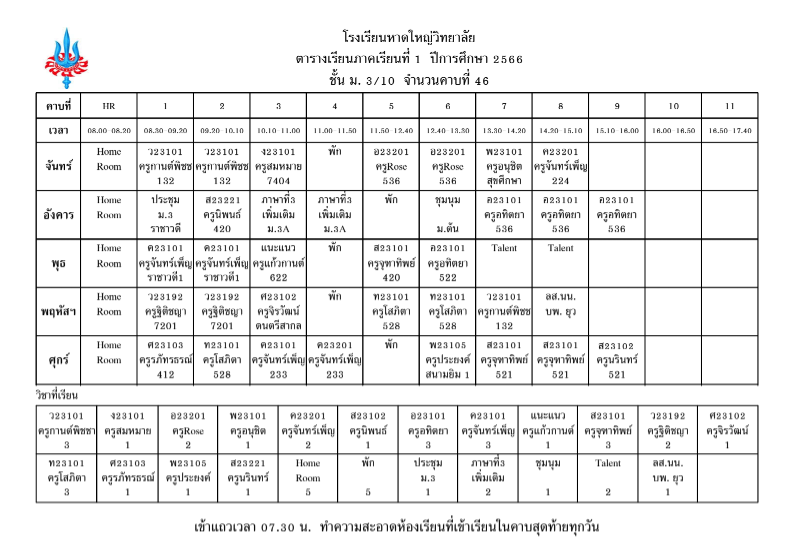
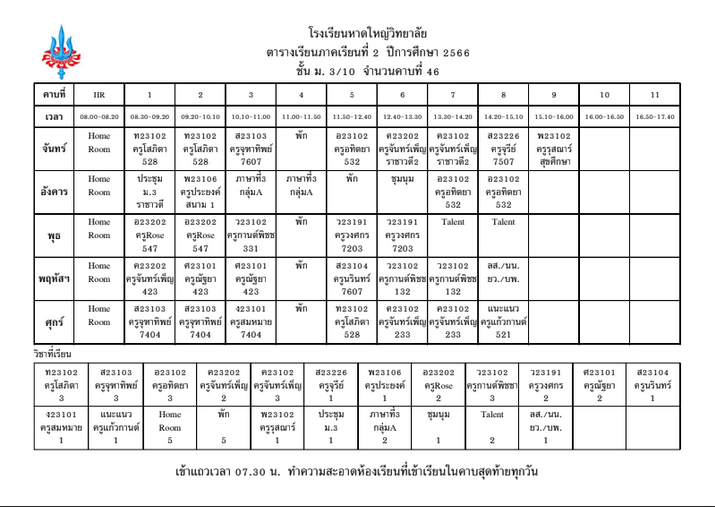
Update web

Changed region(s): [[0.0308, 0.0592, 0.9538, 1.0]]

diff --git a/public/index.html b/public/index.html
@@ -121,11 +121,8 @@
     <div class="container px-4 py-5" id="hanging-icons">
         <h2 class="pb-2 border-bottom">📅 ตารางเรียน - Timetable</h2>
         <br>
-        <h4 style="color: red;">อัพเดทล่าสุด : 8 ส.ค. 2566</h4>
-        <p>เพิ่มวิชาภาษาอังกฤษในวันอังคาร เดิมคาบ 7-8 เปลื่ยนเป็น 7-9
-            <br>⚠⚠⚠ <e style="color: red;text-decoration: underline;font-weight: bold;">ตารางไม่ได้ออกจากทางโรงเรียน</e>
-            ⚠⚠⚠
-        </p>
+        <h4 style="color: red;">อัพเดทล่าสุด : 19 ต.ค. 2566</h4>
+        <p><e style="color: yellow;text-decoration: underline;"><b>ตารางเรียน เป็นฉบับทดลองใช้ 1 สัปดาห์เท่านั้น</b></e></p>
         <br>
         <img src="/cdn/Table.png" class="d-block mx-lg-auto img-fluid" alt="Bootstrap Themes" width="700" height="500"
             loading="lazy">

diff --git a/public/page/lesson.html b/public/page/lesson.html
@@ -19,7 +19,7 @@
     <link href="/css/pencil.css" rel="stylesheet" type="text/css">
     <script defer src="/js/Navbar.js"></script>
     <script defer src="/js/Footbar.js"></script>
-    <script src="/js/Loder.js"></script>
+    <script defer src="/js/Loder.js"></script>
     <script defer src="/js/Pencil.js"></script>
     <script src="/js/IframeLoader.js"></script>
 </head>
